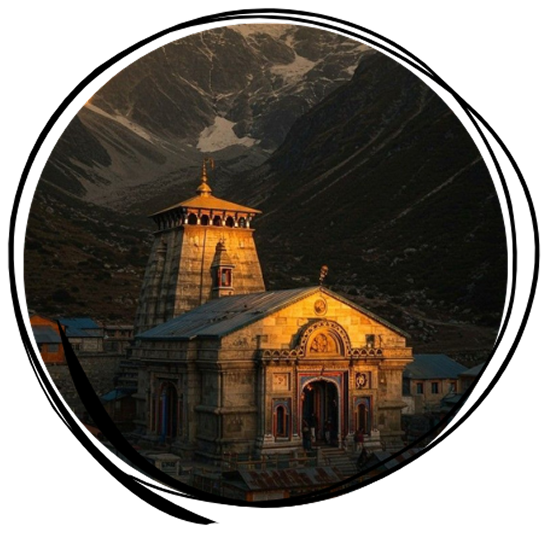
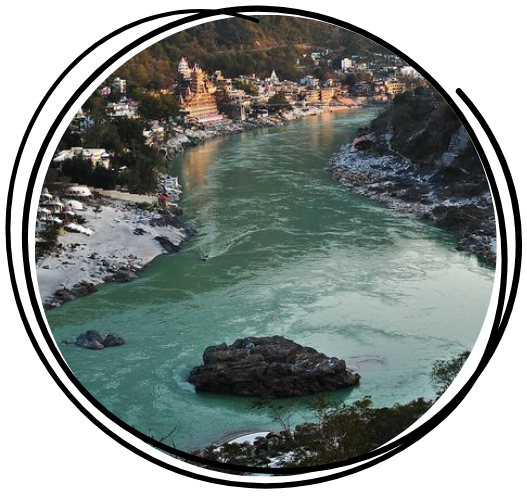
feat(itinerary): refactor carousel component to load images dynamically and improve layout styles

diff --git a/app/components/itinerary/ItineraryCarousel.tsx b/app/components/itinerary/ItineraryCarousel.tsx
@@ -1,84 +1,32 @@
-"use client";
+import { readdir } from "node:fs/promises";
+import path from "node:path";
+import ItineraryCarouselClient, {
+  type ItineraryCarouselSlide,
+} from "./ItineraryCarouselClient";
 
-import { useState } from "react";
-import Image from "next/image";
+const carouselDirectory = path.join(
+  process.cwd(),
+  "public/assets/itinerary/carousel",
+);
+const imageExtension = /\.(avif|gif|jpe?g|png|webp)$/i;
 
-const slides = [
-  {
-    src: "/assets/itinerary/carousel/carousel-1.png",
-    alt: "Himalayan temple at sunrise",
-  },
-  {
-    src: "/assets/itinerary/carousel/carousel-2.png",
-    alt: "Temple entrance in the Himalayas",
-  },
-  {
-    src: "/assets/itinerary/carousel/carousel-3.png",
-    alt: "Mountain river pool",
-  },
-];
+export default async function ItineraryCarousel() {
+  const filenames = await readdir(carouselDirectory);
+  const slides: ItineraryCarouselSlide[] = filenames
+    .filter((filename) => imageExtension.test(filename))
+    .filter((filename) => !filename.endsWith("-arrow.png"))
+    .sort((left, right) =>
+      left.localeCompare(right, undefined, {
+        numeric: true,
+        sensitivity: "base",
+      }),
+    )
+    .map((filename, index) => ({
+      src: `/assets/itinerary/carousel/${filename}`,
+      alt: `Journey photo ${index + 1}`,
+    }));
 
-export default function ItineraryCarousel() {
-  const [activeIndex, setActiveIndex] = useState(0);
-  const visibleSlides = [0, 1, 2].map(
-    (offset) => slides[(activeIndex + offset) % slides.length],
-  );
+  if (slides.length === 0) return null;
 
-  const showPrevious = () => {
-    setActiveIndex((index) => (index - 1 + slides.length) % slides.length);
-  };
-
-  const showNext = () => {
-    setActiveIndex((index) => (index + 1) % slides.length);
-  };
-
-  return (
-    <section className="itinerary-carousel" aria-label="Journey photo gallery">
-      <div className="itinerary-carousel__inner">
-        <div className="itinerary-carousel__slides">
-          {visibleSlides.map((slide, index) => (
-            <div
-              className={`itinerary-carousel__slide itinerary-carousel__slide--${index}`}
-              key={slide.src}
-            >
-              <Image
-                src={slide.src}
-                alt={slide.alt}
-                width={644}
-                height={627}
-                sizes="(min-width: 1920px) 280px, (min-width: 1200px) 220px, (min-width: 768px) 170px, 30vw"
-              />
-            </div>
-          ))}
-        </div>
-
-        <button
-          type="button"
-          className="itinerary-carousel__control itinerary-carousel__control--previous"
-          onClick={showPrevious}
-          aria-label="Show previous photos"
-        >
-          <Image
-            src="/assets/itinerary/carousel/left-arrow.png"
-            alt=""
-            width={732}
-            height={135}
-          />
-        </button>
-        <button
-          type="button"
-          className="itinerary-carousel__control itinerary-carousel__control--next"
-          onClick={showNext}
-          aria-label="Show next photos"
-        >
-          <Image
-            src="/assets/itinerary/carousel/right-arrow.png"
-            alt=""
-            width={728}
-            height={131}
-          />
-        </button>
-      </div>
-    </section>
-  );
+  return <ItineraryCarouselClient slides={slides} />;
 }

diff --git a/app/components/itinerary/ItineraryCarouselClient.tsx b/app/components/itinerary/ItineraryCarouselClient.tsx
@@ -1,0 +1,78 @@
+"use client";
+
+import { useState } from "react";
+import Image from "next/image";
+
+export interface ItineraryCarouselSlide {
+  src: string;
+  alt: string;
+}
+
+interface Props {
+  slides: ItineraryCarouselSlide[];
+}
+
+export default function ItineraryCarouselClient({ slides }: Props) {
+  const [activeIndex, setActiveIndex] = useState(0);
+  const visibleSlides = [0, 1, 2].map(
+    (offset) => slides[(activeIndex + offset) % slides.length],
+  );
+
+  const showPrevious = () => {
+    setActiveIndex((index) => (index - 1 + slides.length) % slides.length);
+  };
+
+  const showNext = () => {
+    setActiveIndex((index) => (index + 1) % slides.length);
+  };
+
+  return (
+    <section className="itinerary-carousel" aria-label="Journey photo gallery">
+      <div className="itinerary-carousel__inner">
+        <div className="itinerary-carousel__slides">
+          {visibleSlides.map((slide, index) => (
+            <div
+              className={`itinerary-carousel__slide itinerary-carousel__slide--${index}`}
+              key={slide.src}
+            >
+              <Image
+                src={slide.src}
+                alt={slide.alt}
+                width={644}
+                height={627}
+                sizes="(min-width: 1920px) 280px, (min-width: 1200px) 220px, (min-width: 768px) 170px, 30vw"
+              />
+            </div>
+          ))}
+        </div>
+
+        <button
+          type="button"
+          className="itinerary-carousel__control itinerary-carousel__control--previous"
+          onClick={showPrevious}
+          aria-label="Show previous photos"
+        >
+          <Image
+            src="/assets/itinerary/carousel/left-arrow.png"
+            alt=""
+            width={732}
+            height={135}
+          />
+        </button>
+        <button
+          type="button"
+          className="itinerary-carousel__control itinerary-carousel__control--next"
+          onClick={showNext}
+          aria-label="Show next photos"
+        >
+          <Image
+            src="/assets/itinerary/carousel/right-arrow.png"
+            alt=""
+            width={728}
+            height={131}
+          />
+        </button>
+      </div>
+    </section>
+  );
+}

diff --git a/app/styles/itinerary/_itinerary-carousel.scss b/app/styles/itinerary/_itinerary-carousel.scss
@@ -4,7 +4,7 @@
 
 .itinerary-carousel__inner {
   position: relative;
-  width: min(100% - 1.5rem, 24rem);
+  width: min(100% - 1rem, 31rem);
   margin: 0 auto;
   padding-bottom: 1.35rem;
 }
@@ -27,18 +27,18 @@
 
   &--0,
   &--2 {
-    width: clamp(6.6rem, 29vw, 9rem);
+    width: clamp(7.4rem, 32vw, 10rem);
   }
 
   &--1 {
-    width: clamp(5.5rem, 23vw, 7.5rem);
+    width: clamp(6.15rem, 26vw, 8.4rem);
   }
 }
 
 .itinerary-carousel__control {
   position: absolute;
   bottom: 0;
-  width: clamp(3.5rem, 16vw, 4.5rem);
+  width: clamp(3.9rem, 18vw, 5rem);
   padding: 0;
   border: 0;
   background: transparent;
@@ -71,23 +71,23 @@
   }
 
   .itinerary-carousel__inner {
-    width: min(100% - 3rem, 36rem);
+    width: min(100% - 3rem, 48rem);
     padding-bottom: 1.75rem;
   }
 
   .itinerary-carousel__slide {
     &--0,
     &--2 {
-      width: 10.5rem;
+      width: 11.75rem;
     }
 
     &--1 {
-      width: 8.5rem;
+      width: 9.5rem;
     }
   }
 
   .itinerary-carousel__control {
-    width: 5rem;
+    width: 5.6rem;
   }
 }
 
@@ -97,51 +97,34 @@
   }
 
   .itinerary-carousel__inner {
-    width: min(100% - 3rem, 45rem);
+    width: min(100% - 3rem, 60rem);
   }
 
   .itinerary-carousel__slide {
     &--0,
     &--2 {
-      width: 13rem;
+      width: 14.5rem;
     }
 
     &--1 {
-      width: 10.5rem;
+      width: 11.75rem;
     }
   }
 
   .itinerary-carousel__control {
-    width: 6rem;
+    width: 6.7rem;
   }
 }
 
 @media (min-width: 1200px) {
   .itinerary-carousel__inner {
-    width: min(100% - 3rem, 53rem);
+    width: min(100% - 3rem, 70rem);
   }
 
   .itinerary-carousel__slide {
     &--0,
     &--2 {
-      width: 15rem;
-    }
-
-    &--1 {
-      width: 12rem;
-    }
-  }
-}
-
-@media (min-width: 1440px) {
-  .itinerary-carousel__inner {
-    width: min(100% - 3rem, 59rem);
-  }
-
-  .itinerary-carousel__slide {
-    &--0,
-    &--2 {
-      width: 17rem;
+      width: 16.8rem;
     }
 
     &--1 {
@@ -150,14 +133,9 @@
   }
 }
 
-@media (min-width: 1920px) {
-  .itinerary-carousel {
-    padding: 3rem 0 3.5rem;
-  }
-
+@media (min-width: 1440px) {
   .itinerary-carousel__inner {
-    width: min(100% - 3rem, 68rem);
-    padding-bottom: 2rem;
+    width: min(100% - 3rem, 78rem);
   }
 
   .itinerary-carousel__slide {
@@ -170,8 +148,30 @@
       width: 15rem;
     }
   }
+}
+
+@media (min-width: 1920px) {
+  .itinerary-carousel {
+    padding: 3rem 0 3.5rem;
+  }
+
+  .itinerary-carousel__inner {
+    width: min(100% - 3rem, 90rem);
+    padding-bottom: 2rem;
+  }
+
+  .itinerary-carousel__slide {
+    &--0,
+    &--2 {
+      width: 21.25rem;
+    }
+
+    &--1 {
+      width: 16.8rem;
+    }
+  }
 
   .itinerary-carousel__control {
-    width: 7rem;
+    width: 7.85rem;
   }
 }

diff --git a/app/components/itinerary/ScaledTimelineDays.tsx b/app/components/itinerary/ScaledTimelineDays.tsx
@@ -22,7 +22,9 @@ const getTimelineHeight = (viewportWidth: number) => {
   const lastStop = HEIGHT_STOPS.at(-1)!;
 
   if (viewportWidth <= firstStop.width) return firstStop.height;
-  if (viewportWidth >= lastStop.width) return lastStop.height;
+  if (viewportWidth >= lastStop.width) {
+    return lastStop.height * (viewportWidth / lastStop.width);
+  }
 
   const upperIndex = HEIGHT_STOPS.findIndex(
     (stop) => stop.width >= viewportWidth,